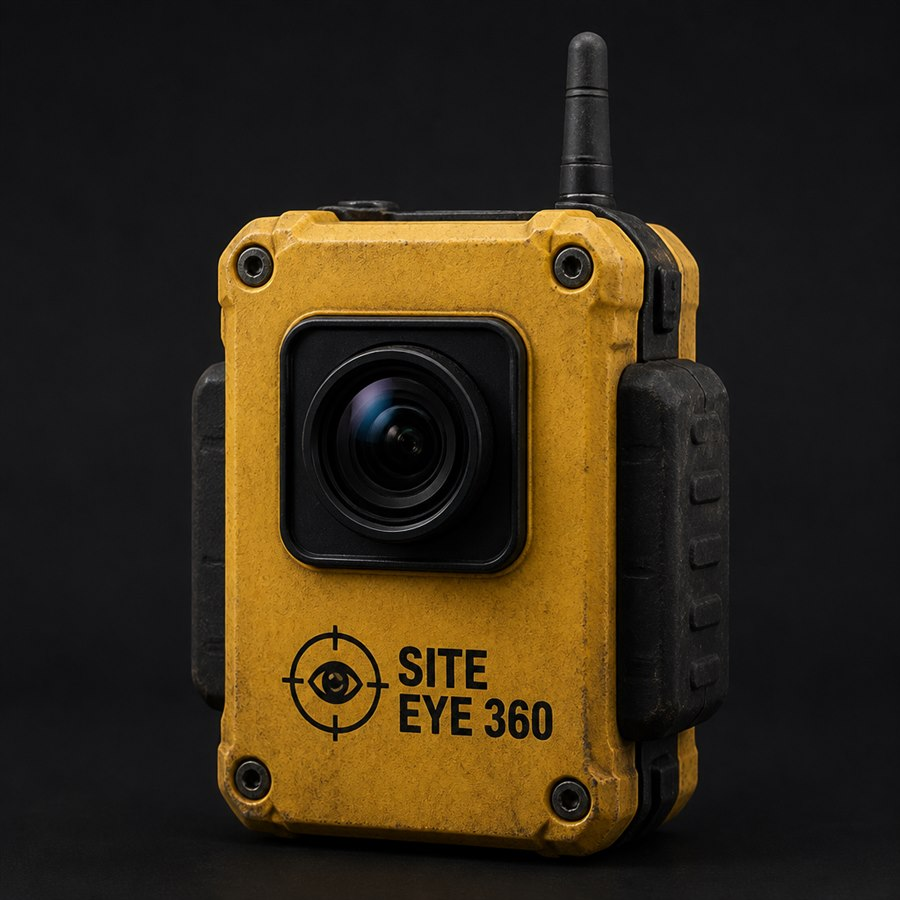
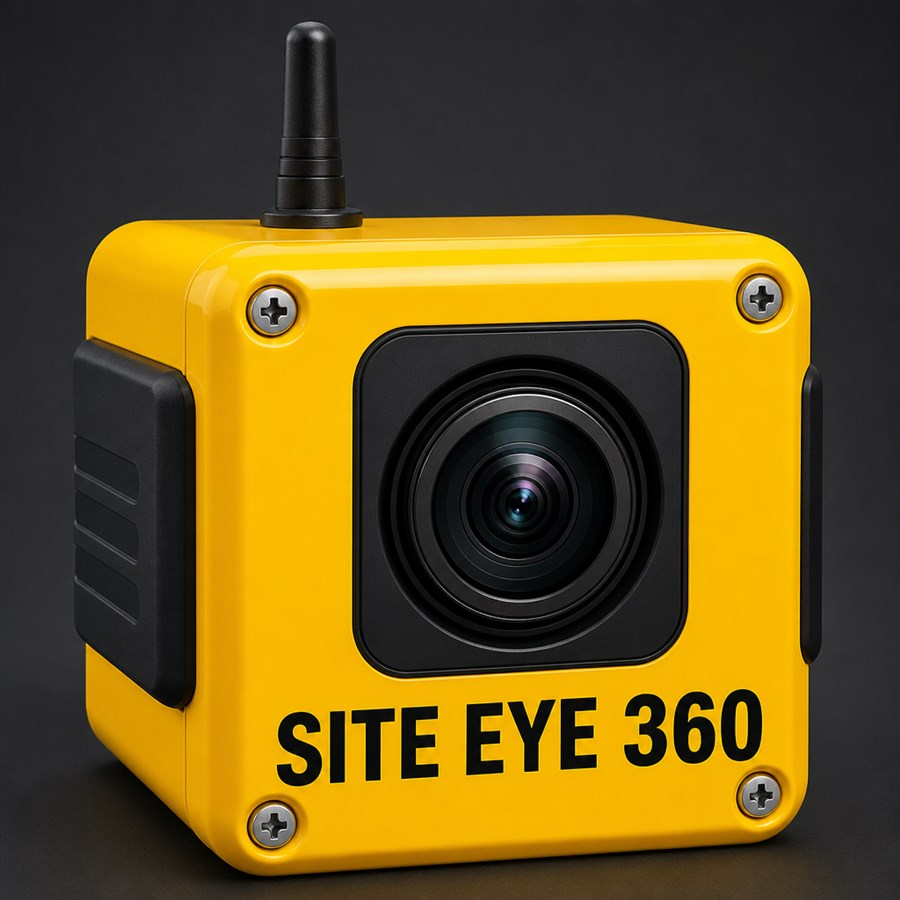
Replace the muddy camera graphics with a bright yellow unit that actually looks like a camera.

diff --git a/public/live/app.css b/public/live/app.css
@@ -1,12 +1,12 @@
 :root{
-  --gold:#C9A227;
-  --gold-2:#D4B441;
+  --gold:#FFD000;
+  --gold-2:#FFE44D;
   --bg:#050505;
   --card:#121212;
   --line:#222;
   --muted:#9A9A9A;
-  --green:#6B8F3A;
-  --red:#8A6B12;
+  --green:#2EE56B;
+  --red:#E31C23;
 }
 *{box-sizing:border-box;margin:0;padding:0}
 html,body{height:100%;background:#000;color:#fff;font-family:Arial,Helvetica,sans-serif}
@@ -32,7 +32,7 @@ button,input{font-family:inherit}
 .hero{
   margin:8px 12px 14px;border-radius:12px;overflow:hidden;line-height:0;background:#111
 }
-.hero img{width:100%;height:auto;display:block}
+.hero img{width:100%;height:auto;display:block;filter:saturate(1.35) brightness(1.18)}
 
 .sec{padding:0 14px 10px;display:flex;align-items:center;justify-content:space-between}
 .sec h2{color:var(--gold);font-size:12px;letter-spacing:.12em}
@@ -132,7 +132,7 @@ button,input{font-family:inherit}
 .go{width:100%;background:var(--gold);color:#111;border:0;border-radius:8px;padding:14px;font-weight:900;font-size:15px;cursor:pointer}
 .install{width:100%;margin-top:10px;background:#1a1a1a;color:var(--gold);border:1px solid var(--gold);border-radius:8px;padding:12px;font-weight:900;font-size:14px;cursor:pointer}
 .install-hint{margin-top:8px;font-size:12px;color:#ccc;line-height:1.4}
-.err{color:#E8C547;font-size:13px;font-weight:800;min-height:18px;margin-bottom:8px}
+.err{color:var(--gold);font-size:13px;font-weight:800;min-height:18px;margin-bottom:8px}
 .hide{display:none !important}
 .placeholder{padding:40px 24px 100px;color:#888;text-align:center;line-height:1.5}
 .placeholder h2{color:#fff;margin-bottom:8px}
@@ -143,6 +143,7 @@ button,input{font-family:inherit}
   position:absolute;left:12px;top:12px;z-index:3;background:rgba(0,0,0,.6);
   border:1px solid #333;border-radius:8px;padding:10px 12px
 }
+.cam-page .hud img{filter:saturate(1.35) brightness(1.18)}
 .cam-page .hud .k{font-size:11px;color:#aaa;font-weight:800}
 .cam-page .code{font-size:32px;letter-spacing:.2em;font-weight:900;margin:4px 0}
 .cam-page .st{font-size:12px;color:#ccc}

diff --git a/public/live/camera.html b/public/live/camera.html
@@ -17,10 +17,10 @@
   <header class="hd">
     <a class="ic" href="/live" aria-label="Back">&#8592;</a>
     <div class="logo">
-      <svg width="28" height="28" viewBox="0 0 32 32" aria-hidden="true"><rect width="32" height="32" rx="6" fill="#C9A227"/><rect x="7" y="5" width="18" height="18" rx="2" fill="#111"/><circle cx="16" cy="14" r="6" fill="#1c1c1c"/><circle cx="16" cy="14" r="2.2" fill="#C9A227"/><path d="M16 7.5v2.2M16 18.3v2.2M9.5 14h2.2M20.3 14h2.2" stroke="#C9A227" stroke-width="1.3"/></svg>
+      <svg width="28" height="28" viewBox="0 0 32 32" aria-hidden="true"><rect width="32" height="32" rx="6" fill="#FFD000"/><rect x="7" y="5" width="18" height="18" rx="2" fill="#111"/><circle cx="16" cy="14" r="6" fill="#222"/><circle cx="16" cy="14" r="2.4" fill="#FFD000"/></svg>
       SITE <b>EYE</b> 360
     </div>
-    <span class="logo" style="font-size:11px;color:#C9A227">CAMERA</span>
+    <span class="logo" style="font-size:11px;color:#FFD000">CAMERA</span>
   </header>
   <div class="stage">
     <video id="preview" autoplay muted playsinline></video>

diff --git a/public/live/index.html b/public/live/index.html
@@ -11,7 +11,7 @@
 <div class="hub-page">
   <div class="top">
     <div class="logo" style="color:#111">
-      <svg width="28" height="28" viewBox="0 0 32 32" aria-hidden="true"><rect width="32" height="32" rx="6" fill="#C9A227"/><rect x="7" y="5" width="18" height="18" rx="2" fill="#111"/><circle cx="16" cy="14" r="6" fill="#1c1c1c"/><circle cx="16" cy="14" r="2.2" fill="#C9A227"/><path d="M16 7.5v2.2M16 18.3v2.2M9.5 14h2.2M20.3 14h2.2" stroke="#C9A227" stroke-width="1.3"/></svg>
+      <svg width="28" height="28" viewBox="0 0 32 32" aria-hidden="true"><rect width="32" height="32" rx="6" fill="#FFD000"/><rect x="7" y="5" width="18" height="18" rx="2" fill="#111"/><circle cx="16" cy="14" r="6" fill="#222"/><circle cx="16" cy="14" r="2.4" fill="#FFD000"/></svg>
       SITE <b>EYE</b> 360
     </div>
     <span style="font-size:11px;font-weight:800;letter-spacing:.08em;color:#888">PROTOTYPE</span>

diff --git a/public/live/watch.html b/public/live/watch.html
@@ -30,7 +30,7 @@
   <header class="hd" id="mainHd">
     <button class="ic" type="button" aria-label="Menu">&#9776;</button>
     <div class="logo">
-      <svg width="28" height="28" viewBox="0 0 32 32" aria-hidden="true"><rect width="32" height="32" rx="6" fill="#C9A227"/><rect x="7" y="5" width="18" height="18" rx="2" fill="#111"/><circle cx="16" cy="14" r="6" fill="#1c1c1c"/><circle cx="16" cy="14" r="2.2" fill="#C9A227"/><path d="M16 7.5v2.2M16 18.3v2.2M9.5 14h2.2M20.3 14h2.2" stroke="#C9A227" stroke-width="1.3"/></svg>
+      <svg width="28" height="28" viewBox="0 0 32 32" aria-hidden="true"><rect width="32" height="32" rx="6" fill="#FFD000"/><rect x="7" y="5" width="18" height="18" rx="2" fill="#111"/><circle cx="16" cy="14" r="6" fill="#222"/><circle cx="16" cy="14" r="2.4" fill="#FFD000"/></svg>
       SITE <b>EYE</b> 360
     </div>
     <div class="right">

diff --git a/public/live/sw.js b/public/live/sw.js
@@ -1,4 +1,4 @@
-const CACHE = 'siteeye-app-v2';
+const CACHE = 'siteeye-app-v3';
 const SHELL = [
   '/live/watch',
   '/live/camera',
